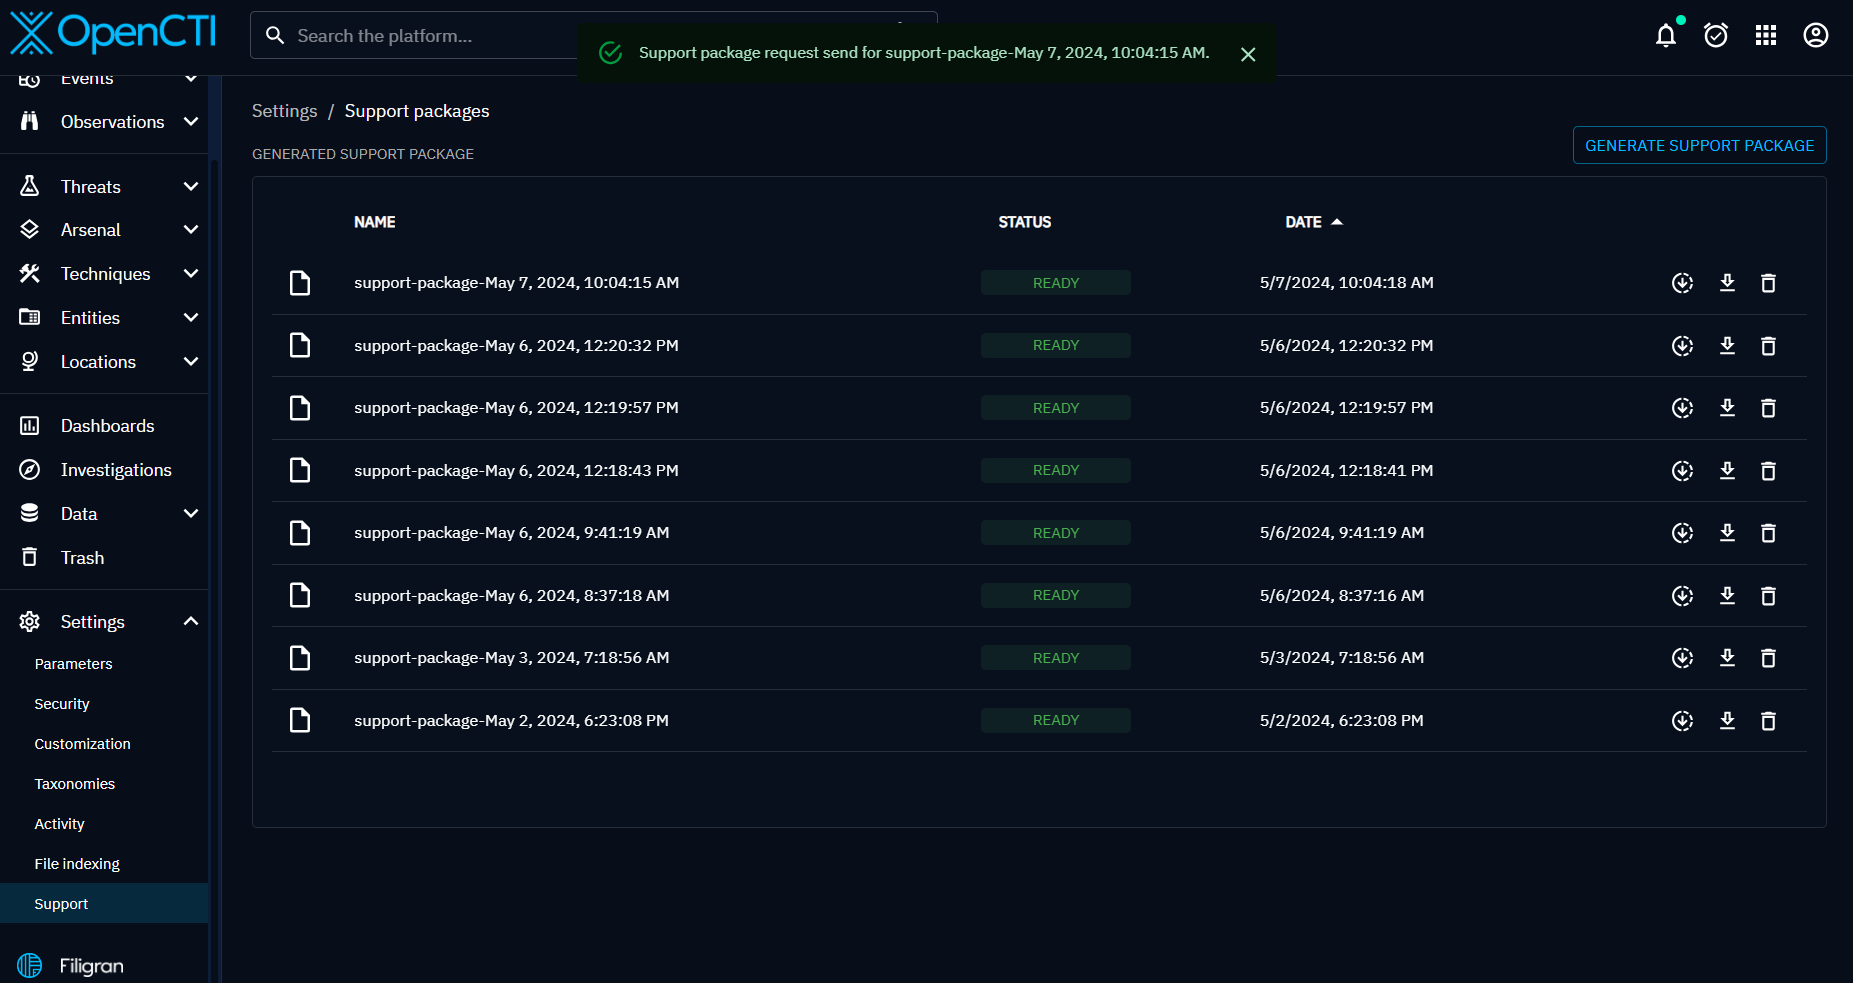
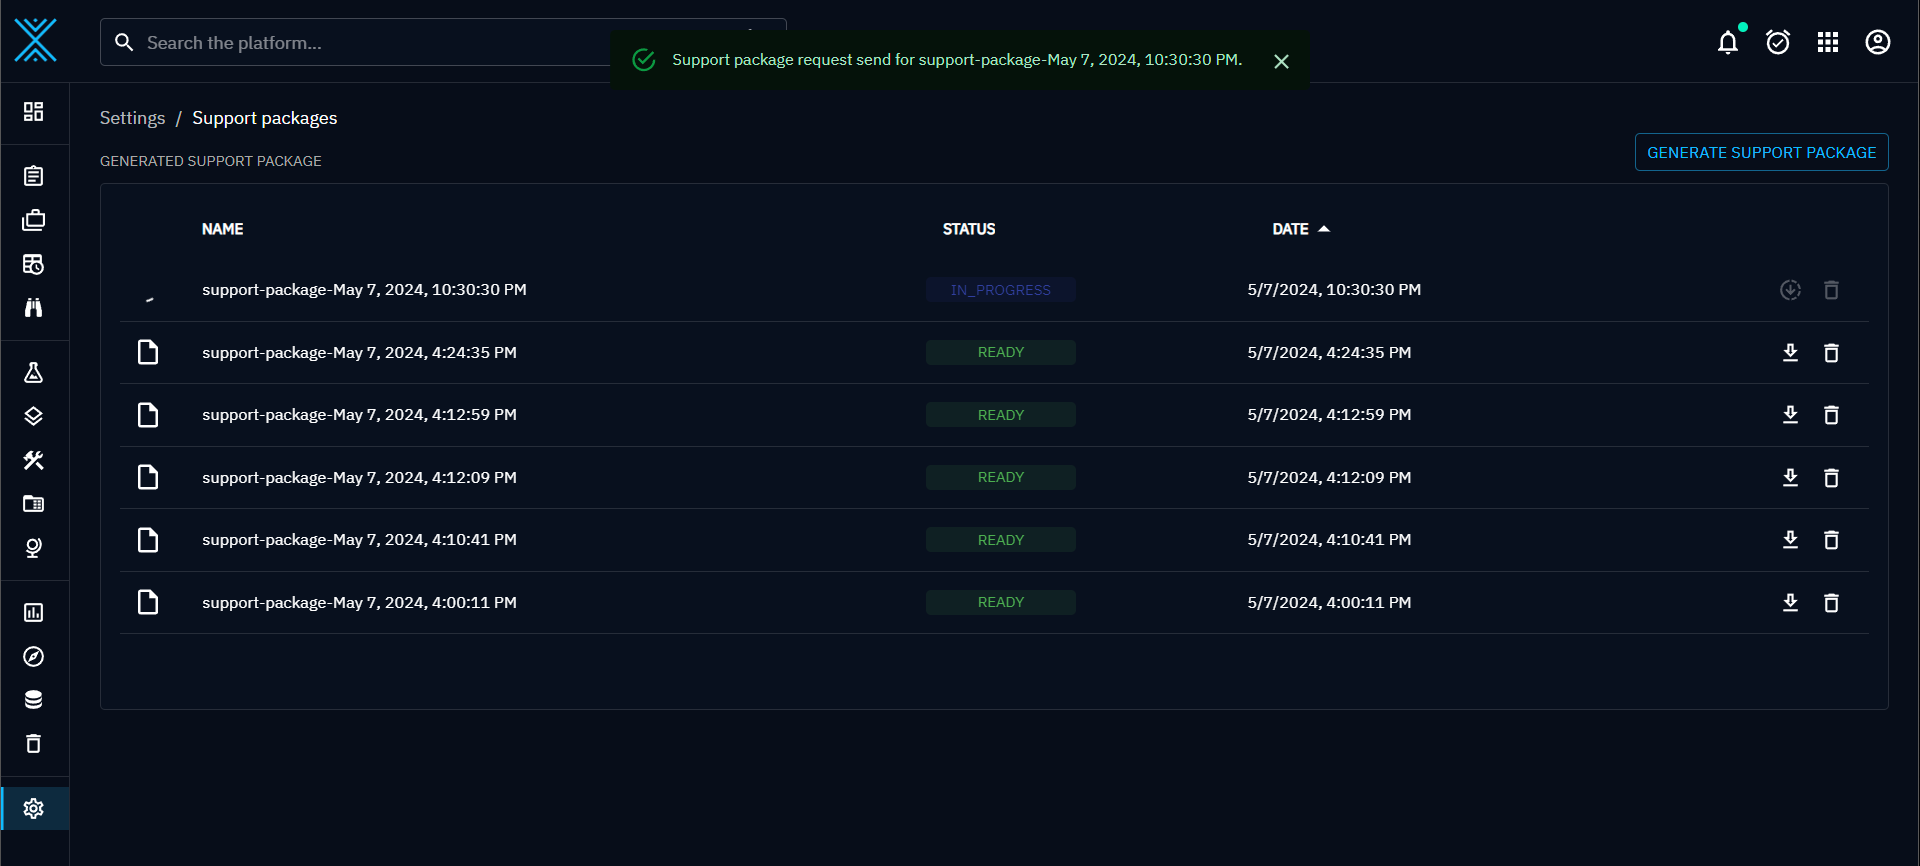
[docs] Update support package doc (#162)

diff --git a/docs/administration/support-package.md b/docs/administration/support-package.md
@@ -1,14 +1,25 @@
 # Support Package
 
-Support packages are usefull for troubleshooting issue that occurs on OpenCTI platform.
+Support packages are useful for troubleshooting issue that occurs on OpenCTI platform.
 Administrators can request to create and download a support package that contains recent platform error logs and usage statistics.
 
 Support Package can be requested from "Settings > Support" menu.
 
 ![Support package overview](./assets/support-package-overview.png)
 
-1. On a click on "Generate support package" button on the top right, the support package is requested.
-1. A background task on the platform gathers logs and interesting data and creates an archive
+## Package generation
 
-1. When everything is ready, the status is changed to READY and the support package can be downloaded
-1. In case of platform instability, some logs might not be retrieve and the support package request may stay "In progress" for ever. In that case it's possible to use the "force download" button to get a partial support package archive. This partial support package archive contains all logs that have been collected so far.
+On a click on "Generate support package", a support event is propagated to every platform instances to request needed information.
+Every instance that will receive this message will process the request and send the files to the platform.
+During this processing the interface will display the expected support package name in an IN PROGRESS state waiting for completion.
+After finishing the process the support package will move to the READY state and the buttons download and delete will be activated.
+
+## Package download
+
+After file generation, using the download button will dynamically create a (zip) containing all instances logs and telemetry.
+
+## Partial package
+
+In case of platform instability, some logs might not be retrieved and the support package will be incomplete.
+
+If some instances fail to send their data, you will be able to force download a partial zip only after 1 minute. In case of a support package taking more than 5 minutes, the status will be moved to "timeout".
